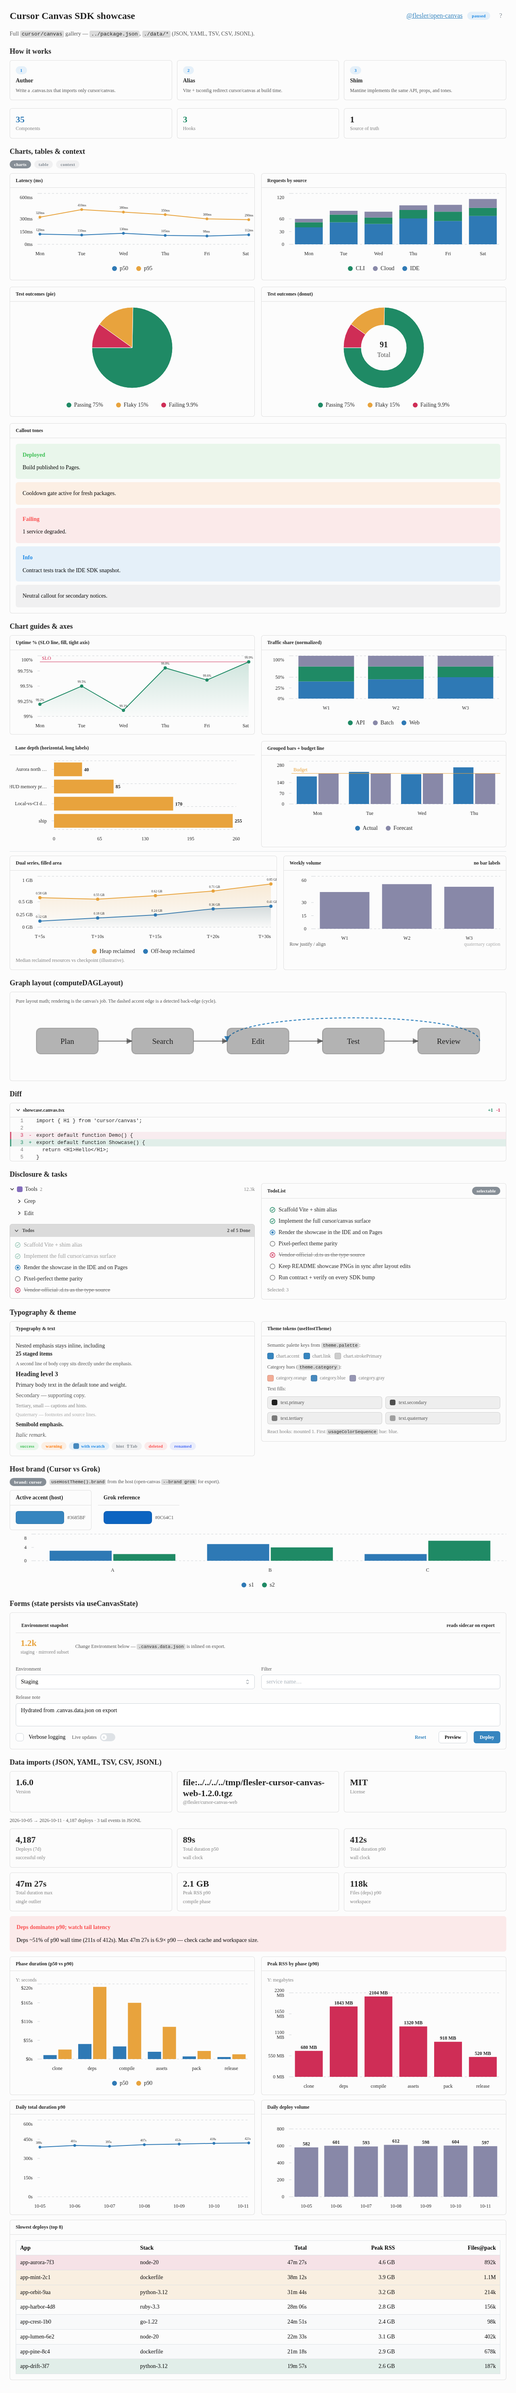
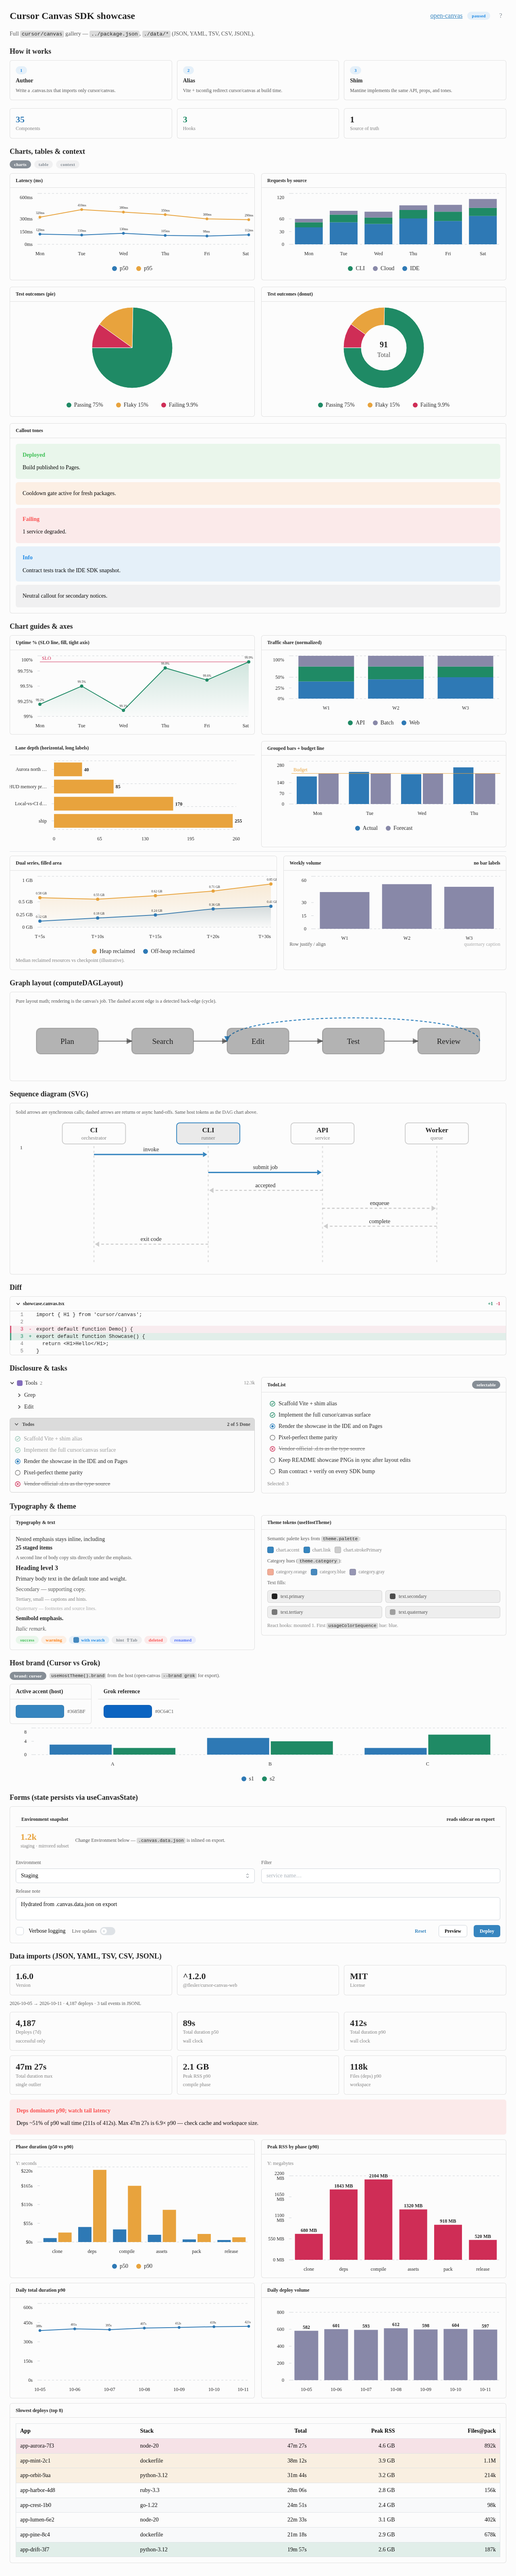
Add generic sequence diagram to showcase and refresh docs PNGs

diff --git a/example/showcase.canvas.tsx b/example/showcase.canvas.tsx
@@ -318,6 +318,165 @@ function DagDiagram() {
 	)
 }
 
+const SEQ_ACTORS = [
+	{ label: 'CI', sub: 'orchestrator' },
+	{ label: 'CLI', sub: 'runner' },
+	{ label: 'API', sub: 'service' },
+	{ label: 'Worker', sub: 'queue' },
+]
+
+type SeqKind = 'call' | 'return' | 'async'
+
+const SEQ_MESSAGES: {
+	from: number;
+	to: number;
+	label: string;
+	kind: SeqKind;
+	step?: string
+}[] = [
+	{ from: 0, to: 1, label: 'invoke', kind: 'call', step: '1' },
+	{ from: 1, to: 2, label: 'submit job', kind: 'call' },
+	{ from: 2, to: 1, label: 'accepted', kind: 'return' },
+	{ from: 2, to: 3, label: 'enqueue', kind: 'async' },
+	{ from: 3, to: 2, label: 'complete', kind: 'async' },
+	{ from: 1, to: 0, label: 'exit code', kind: 'return' },
+]
+
+function SequenceDiagram() {
+	const theme = useHostTheme()
+	const boxStroke = theme.stroke.primary
+	const lifelineStroke = theme.stroke.secondary
+	const width = 920
+	const headerH = 52
+	const rowH = 34
+	const gap = 14
+	const labelRail = 40
+	const boxW = 120
+	const slot = (width - labelRail - 12) / SEQ_ACTORS.length
+	const centers = SEQ_ACTORS.map(
+		(_, index) => labelRail + slot * index + slot / 2,
+	)
+	const rows = SEQ_MESSAGES.map((message, index) => {
+		const previous = SEQ_MESSAGES[index - 1]
+		const extra = message.step && previous ? gap : 0
+		return { message, extra }
+	})
+	let cursor = headerH + 16
+	const placed = rows.map((row) => {
+		cursor += row.extra
+		const y = cursor
+		cursor += rowH
+		return { ...row, y }
+	})
+	const height = cursor + 12
+	const highlight = 1
+
+	return (
+		<svg
+			viewBox={`0 0 ${width} ${height}`}
+			width="100%"
+			role="img"
+			aria-label="Sequence diagram: CI invokes a CLI that talks to an API and async worker"
+			style={{ display: 'block' }}
+		>
+			{SEQ_ACTORS.map((actor, index) => {
+				const x = centers[index] - boxW / 2
+				const primary = index === highlight
+				return (
+					<g key={actor.label}>
+						<rect
+							x={x}
+							y={8}
+							width={boxW}
+							height={40}
+							rx={6}
+							fill={primary ? theme.fill.tertiary : theme.bg.elevated}
+							stroke={primary ? theme.accent.primary : boxStroke}
+							strokeWidth={1.5}
+						/>
+						<text
+							x={centers[index]}
+							y={26}
+							textAnchor="middle"
+							fill={theme.text.primary}
+							fontSize={13}
+							fontWeight={600}
+						>
+							{actor.label}
+						</text>
+						<text
+							x={centers[index]}
+							y={40}
+							textAnchor="middle"
+							fill={theme.text.tertiary}
+							fontSize={10}
+						>
+							{actor.sub}
+						</text>
+						<line
+							x1={centers[index]}
+							y1={52}
+							x2={centers[index]}
+							y2={height - 8}
+							stroke={lifelineStroke}
+							strokeWidth={2}
+							strokeDasharray="4 5"
+						/>
+					</g>
+				)
+			})}
+			{placed.map(({ message, y }) => {
+				const x1 = centers[message.from]
+				const x2 = centers[message.to]
+				const dir = x2 >= x1 ? 1 : -1
+				const dashed = message.kind !== 'call'
+				const color = dashed ? theme.stroke.primary : theme.accent.primary
+				const lineWidth = dashed ? 2 : 2.5
+				const mid = (x1 + x2) / 2
+				const head = 8
+				const tip = x2 - dir * 2
+				return (
+					<g key={`${message.label}-${y}`}>
+						{message.step && (
+							<text
+								x={8}
+								y={y - 10}
+								fill={theme.text.tertiary}
+								fontSize={10}
+								fontWeight={600}
+							>
+								{message.step}
+							</text>
+						)}
+						<line
+							x1={x1}
+							y1={y}
+							x2={tip - dir * head}
+							y2={y}
+							stroke={color}
+							strokeWidth={lineWidth}
+							strokeDasharray={dashed ? '5 4' : undefined}
+						/>
+						<polygon
+							points={`${tip},${y} ${tip - dir * head},${y - 5} ${tip - dir * head},${y + 5}`}
+							fill={color}
+						/>
+						<text
+							x={mid}
+							y={y - 6}
+							textAnchor="middle"
+							fill={theme.text.primary}
+							fontSize={11}
+						>
+							{message.label}
+						</text>
+					</g>
+				)
+			})}
+		</svg>
+	)
+}
+
 /* --------------------------------------------------------------------- main */
 
 export default function ShowcaseCanvas() {
@@ -392,7 +551,7 @@ export default function ShowcaseCanvas() {
 			<Row gap={12} align="center">
 				<H1>Cursor Canvas SDK showcase</H1>
 				<Spacer />
-				<Link href={repoUrl}>{pkg.name}</Link>
+				<Link href={repoUrl}>open-canvas</Link>
 				<Pill tone="info" active={live}>
 					{live ? 'live' : 'paused'}
 				</Pill>
@@ -742,6 +901,20 @@ export default function ShowcaseCanvas() {
 								accent edge is a detected back-edge (cycle).
 							</Text>
 							<DagDiagram />
+						</Stack>
+					</CardBody>
+				</Card>
+			</Section>
+
+			<Section title="Sequence diagram (SVG)">
+				<Card>
+					<CardBody>
+						<Stack gap={8}>
+							<Text size="small" tone="secondary">
+								Solid arrows are synchronous calls; dashed arrows are returns or
+								async hand-offs. Same host tokens as the DAG chart above.
+							</Text>
+							<SequenceDiagram />
 						</Stack>
 					</CardBody>
 				</Card>
